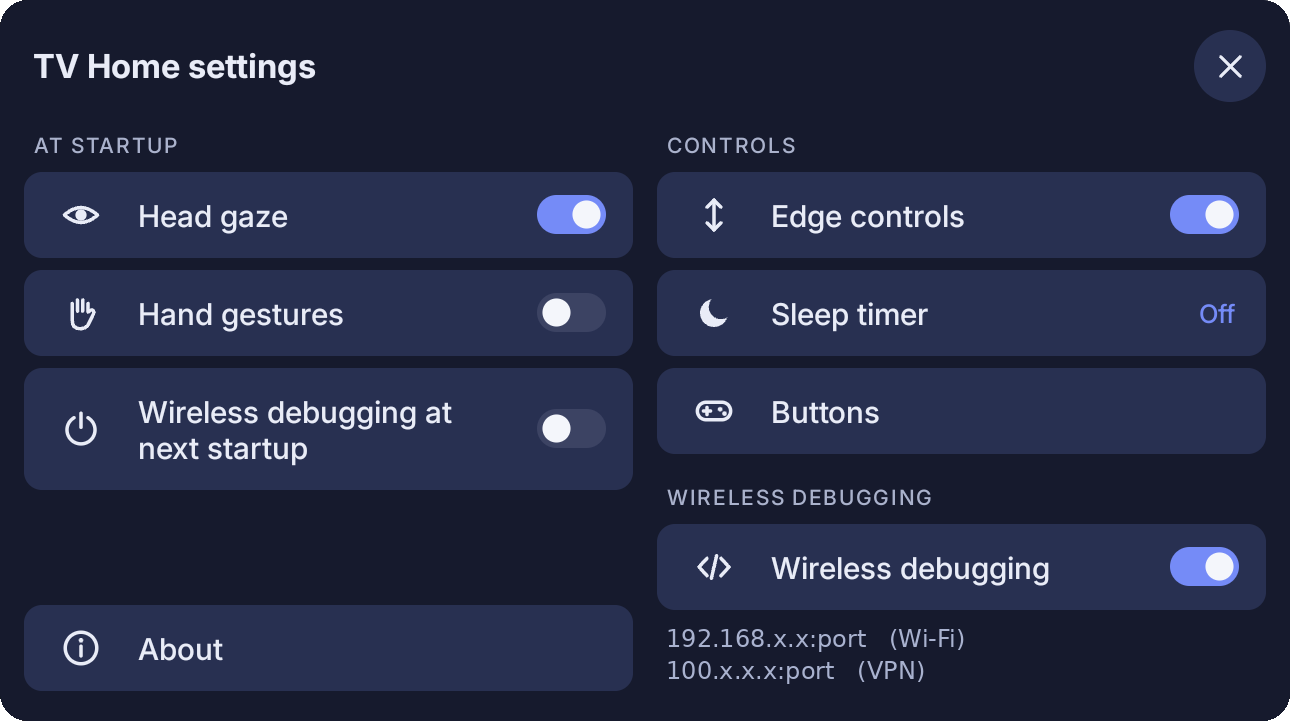
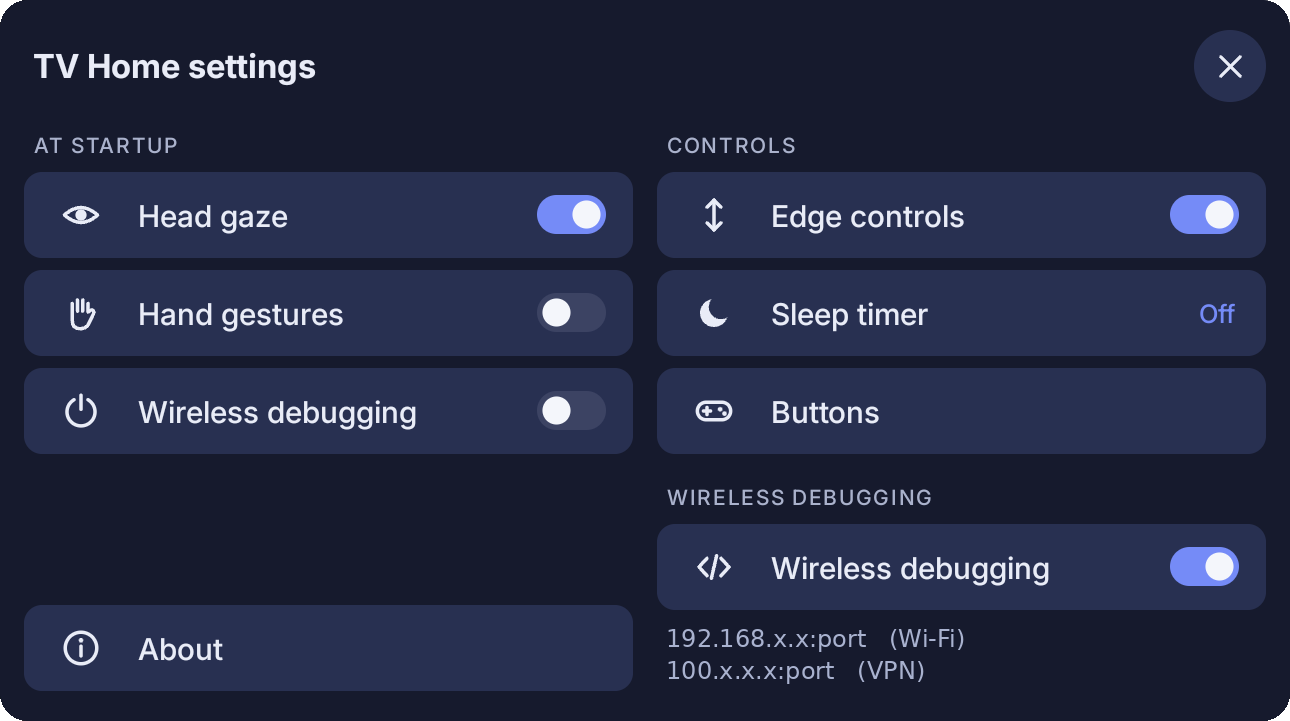
TV Home settings: shorter label for Wireless debugging at startup
Claude-Session: https://claude.ai/code/session_01VUf44TcDJLfxdnnXui99Bk

Changed region(s): [[0.0, 0.5492, 0.4961, 0.7018], [0.3101, 0.5492, 0.3411, 0.5798]]

diff --git a/tvhome/src/com/hoang/vhome/ControlService.java b/tvhome/src/com/hoang/vhome/ControlService.java
@@ -461,7 +461,7 @@ public class ControlService extends AccessibilityService {
             Prefs.putInt(this, BootReceiver.GESTURES_OFF_FLAG, on ? 0 : 1);
             Prefs.putInt(this, BootReceiver.GESTURES, on ? 1 : 0);
             return on; }), rowLp(LinearLayout.LayoutParams.MATCH_PARENT));
-        target.addView(switchRow(Icon.STARTUP, "Wireless debugging at next startup", Prefs.getInt(this, Prefs.ADB_NEXT_BOOT, 0) == 1, on -> {
+        target.addView(switchRow(Icon.STARTUP, "Wireless debugging", Prefs.getInt(this, Prefs.ADB_NEXT_BOOT, 0) == 1, on -> {
             Prefs.putInt(this, Prefs.ADB_NEXT_BOOT, on ? 1 : 0); return on; }), rowLp(LinearLayout.LayoutParams.MATCH_PARENT));
 
 

diff --git a/README.md b/README.md
@@ -380,7 +380,7 @@ The panel stays open until you **click outside it**, **click the ☰ button agai
 |---|---|
 | **At startup: Head gaze** | On by default. Switch it off if you prefer to start without head tracking |
 | **At startup: Hand gestures** | On is Viture's default. Off switches the gesture camera off at once and keeps it off after every restart, the biggest single battery saving (the same flag `apply gestures` sets) |
-| **At startup: Wireless debugging at next startup** | Turns Wireless debugging on once, at the next restart, then switches itself off. As soon as the connection is ready, a popup shows the address and port to use with `./vnd.sh connect`. Useful because the port changes at every restart |
+| **At startup: Wireless debugging** | Turns Wireless debugging on once, at the next restart, then switches itself off. As soon as the connection is ready, a popup shows the address and port to use with `./vnd.sh connect`. Useful because the port changes at every restart |
 | **Wireless debugging** | Switches it on or off now, and lists the neckband's addresses (Wi-Fi and VPN, such as Tailscale) with the port. Android does not let apps read the port, so TV Home briefly opens the system Wireless debugging page behind the popup, reads its "IP address & Port" line and steps back. It also picks the port up whenever you open that page yourself |
 | **Edge controls** | On by default; see below |
 | **Sleep timer** | Off by default. Each click steps through 15, 30, 60 and 90 minutes and back to Off. When time is up, playback pauses and the screen locks, so the glasses go dark. While it runs, the ☰ panel shows the time left with a one-click cancel. It does not survive a restart |

diff --git a/CLAUDE.md b/CLAUDE.md
@@ -27,7 +27,7 @@ You are helping someone tune a VITURE Neckband with `vnd.sh`. The person may not
 
 ## Connection drops
 
-The wireless debugging port changes after sleep, reboot, Wi-Fi reconnects or toggling. When commands fail with `unreachable` or `Connection refused`, do not scan ports or retry in a loop: ask the person for the new "IP address & Port" and run `connect` again. Suggest raising the screen timeout while working. If TV Home is installed, the person can open ☰ → Settings to see the current address and port, or switch on *Wireless debugging at next startup* before a reboot so the new address appears on screen.
+The wireless debugging port changes after sleep, reboot, Wi-Fi reconnects or toggling. When commands fail with `unreachable` or `Connection refused`, do not scan ports or retry in a loop: ask the person for the new "IP address & Port" and run `connect` again. Suggest raising the screen timeout while working. If TV Home is installed, the person can open ☰ → Settings to see the current address and port, or switch on *Wireless debugging* under *At startup* before a reboot so the new address appears on screen.
 
 If the local adb crashes with `fdsan` or `daemon didn't ACK` (seen in some VMs), prefix commands with `VND_NO_MDNS=1`.
 
